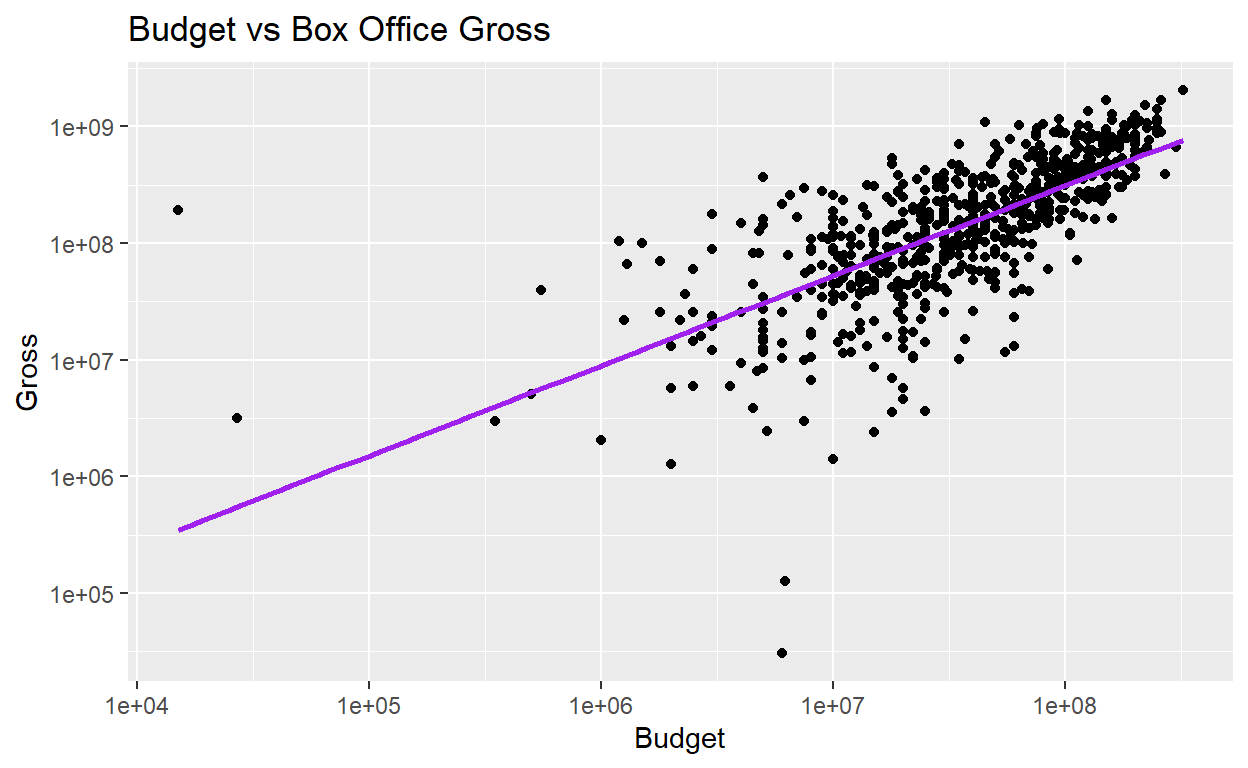
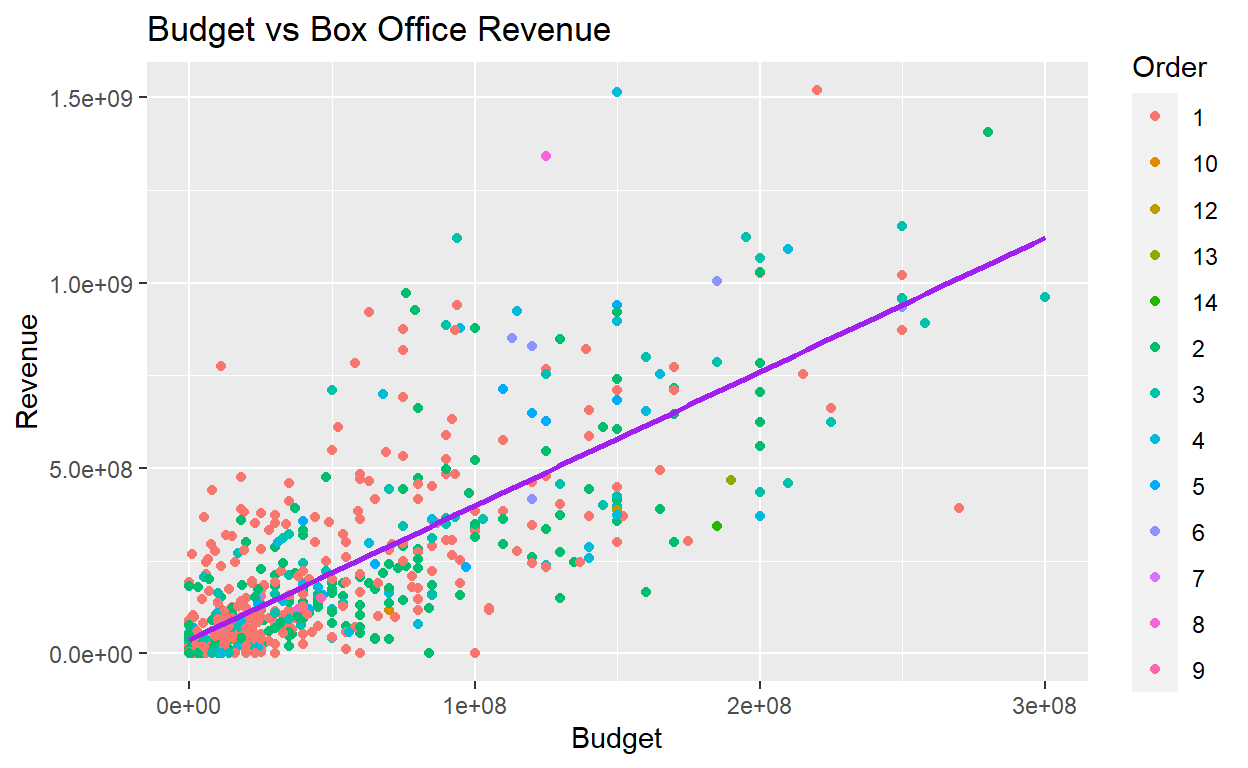
IX

diff --git a/index.html b/index.html
@@ -115,7 +115,7 @@ code span.wa { color: #5e5e5e; font-style: italic; } /* Warning */
   <!--/radix_placeholder_rmarkdown_metadata-->
   
   <script type="text/json" id="radix-resource-manifest">
-  {"type":"character","attributes":{},"value":["index_files/anchor-4.2.2/anchor.min.js","index_files/bowser-1.9.3/bowser.min.js","index_files/distill-2.2.21/template.v2.js","index_files/figure-html5/unnamed-chunk-3-1.png","index_files/figure-html5/unnamed-chunk-4-1.png","index_files/figure-html5/unnamed-chunk-5-1.png","index_files/figure-html5/unnamed-chunk-6-1.png","index_files/header-attrs-2.17/header-attrs.js","index_files/jquery-3.6.0/jquery-3.6.0.js","index_files/jquery-3.6.0/jquery-3.6.0.min.js","index_files/jquery-3.6.0/jquery-3.6.0.min.map","index_files/popper-2.6.0/popper.min.js","index_files/tippy-6.2.7/tippy-bundle.umd.min.js","index_files/tippy-6.2.7/tippy-light-border.css","index_files/tippy-6.2.7/tippy.css","index_files/tippy-6.2.7/tippy.umd.min.js","index_files/webcomponents-2.0.0/webcomponents.js","movies/movies.csv","Sequels/priyankad0993-sequels/Movies - Cleaned.csv","Sequels/priyankad0993-sequels/Movies - Cleaned.xlsx","Sequels/priyankad0993-sequels/Movies with sequels.csv"]}
+  {"type":"character","attributes":{},"value":["index_files/anchor-4.2.2/anchor.min.js","index_files/bowser-1.9.3/bowser.min.js","index_files/distill-2.2.21/template.v2.js","index_files/figure-html5/unnamed-chunk-3-1.png","index_files/figure-html5/unnamed-chunk-4-1.png","index_files/figure-html5/unnamed-chunk-5-1.png","index_files/figure-html5/unnamed-chunk-6-1.png","index_files/header-attrs-2.17/header-attrs.js","index_files/jquery-3.6.0/jquery-3.6.0.js","index_files/jquery-3.6.0/jquery-3.6.0.min.js","index_files/jquery-3.6.0/jquery-3.6.0.min.map","index_files/popper-2.6.0/popper.min.js","index_files/tippy-6.2.7/tippy-bundle.umd.min.js","index_files/tippy-6.2.7/tippy-light-border.css","index_files/tippy-6.2.7/tippy.css","index_files/tippy-6.2.7/tippy.umd.min.js","index_files/webcomponents-2.0.0/webcomponents.js","movies/movies.csv","movies_metadata.csv","Sequels/priyankad0993-sequels/Movies - Cleaned.csv","Sequels/priyankad0993-sequels/Movies - Cleaned.xlsx","Sequels/priyankad0993-sequels/Movies with sequels.csv"]}
   </script>
   <!--radix_placeholder_navigation_in_header-->
   <!--/radix_placeholder_navigation_in_header-->
@@ -1533,47 +1533,73 @@ code span.wa { color: #5e5e5e; font-style: italic; } /* Warning */
 <p>There are 731 movies released from 1973 to 2020 in this data set. The data notes what franchise a film belongs to and the order in which it was released. For example, the original “Halloween” movie is given a value in the “Order” column of 1. The explanatory variables in this case are the gross box office return of the original, measured in dollars, and the IMDb score of the original, measured on a scale of 1 to 10 (with 10 being the best). The response variables are the average gross box office return and average IMDb scores of any sequels. Since some sequels might be better-received than others, I will take the average gross box office return and IMDb score of the entire franchise after the first film. <strong>Note that for movies released before IMDb existed the score is retroactive and may reflect modern consumer tastes rather than the tastes of people who went to see the movie in theaters.</strong></p>
 <div class="layout-chunk" data-layout="l-body">
 <div class="sourceCode">
-<pre class="sourceCode r"><code class="sourceCode r"><span><span class='va'>movies</span> <span class='op'>&lt;-</span> <span class='fu'><a href='https://readr.tidyverse.org/reference/read_delim.html'>read_csv</a></span><span class='op'>(</span><span class='st'>"movies/movies.csv"</span><span class='op'>)</span></span>
+<pre class="sourceCode r"><code class="sourceCode r"><span><span class='va'>movies</span> <span class='op'>&lt;-</span> <span class='fu'><a href='https://readr.tidyverse.org/reference/read_delim.html'>read_csv</a></span><span class='op'>(</span><span class='st'>"movies_metadata.csv"</span><span class='op'>)</span><span class='op'>|&gt;</span></span>
+<span>  <span class='fu'><a href='https://dplyr.tidyverse.org/reference/select.html'>select</a></span><span class='op'>(</span><span class='va'>budget</span>, <span class='va'>overview</span>, <span class='va'>title</span>, <span class='va'>revenue</span>, <span class='va'>release_date</span>, <span class='va'>runtime</span><span class='op'>)</span><span class='op'>|&gt;</span></span>
+<span>  <span class='fu'><a href='https://dplyr.tidyverse.org/reference/mutate.html'>mutate</a></span><span class='op'>(</span>release_date <span class='op'>=</span> <span class='fu'><a href='https://rdrr.io/r/base/character.html'>as.character</a></span><span class='op'>(</span><span class='va'>release_date</span><span class='op'>)</span><span class='op'>)</span></span>
 <span></span>
 <span><span class='va'>sequels</span> <span class='op'>&lt;-</span> <span class='fu'><a href='https://readr.tidyverse.org/reference/read_delim.html'>read_csv</a></span><span class='op'>(</span><span class='st'>"Sequels/priyankad0993-sequels/Movies - Cleaned.csv"</span><span class='op'>)</span></span>
 <span></span>
-<span><span class='va'>movies_sequels</span> <span class='op'>&lt;-</span> <span class='va'>sequels</span><span class='op'>|&gt;</span></span>
-<span>  <span class='fu'><a href='https://dplyr.tidyverse.org/reference/mutate-joins.html'>inner_join</a></span><span class='op'>(</span><span class='va'>movies</span>, by <span class='op'>=</span> <span class='fu'><a href='https://rdrr.io/r/base/c.html'>c</a></span><span class='op'>(</span><span class='st'>"Title"</span> <span class='op'>=</span> <span class='st'>"name"</span><span class='op'>)</span><span class='op'>)</span><span class='op'>|&gt;</span></span>
-<span>    <span class='fu'><a href='https://dplyr.tidyverse.org/reference/select.html'>select</a></span><span class='op'>(</span><span class='va'>Title</span>, <span class='va'>Year</span>, <span class='va'>`Movie Series`</span>, <span class='va'>`Runtime (mins)`</span>, <span class='va'>`IMDb Rating`</span>, <span class='va'>Order</span>, <span class='va'>budget</span>, <span class='va'>gross</span><span class='op'>)</span><span class='op'>|&gt;</span></span>
-<span>  <span class='fu'><a href='https://dplyr.tidyverse.org/reference/mutate.html'>mutate</a></span><span class='op'>(</span>budget <span class='op'>=</span> <span class='fu'><a href='https://rdrr.io/r/base/integer.html'>as.integer</a></span><span class='op'>(</span><span class='va'>budget</span><span class='op'>)</span>,</span>
-<span>         gross <span class='op'>=</span> <span class='fu'><a href='https://rdrr.io/r/base/integer.html'>as.integer</a></span><span class='op'>(</span><span class='va'>gross</span><span class='op'>)</span><span class='op'>)</span></span>
-<span>  </span>
-<span><span class='va'>movies_sequels</span></span></code></pre>
+<span><span class='va'>sequels</span></span></code></pre>
 </div>
-<pre><code># A tibble: 731 x 8
-   Title             Year Movie ~1 Runti~2 IMDb ~3 Order budget  gross
-   &lt;chr&gt;            &lt;dbl&gt; &lt;chr&gt;      &lt;dbl&gt;   &lt;dbl&gt; &lt;dbl&gt;  &lt;int&gt;  &lt;int&gt;
- 1 101 Dalmatians    1996 101 Dal~     103     5.7     1  7.5e7 3.21e8
- 2 102 Dalmatians    2000 101 Dal~     100     4.9     2  8.5e7 1.84e8
- 3 12 Rounds         2009 12 Roun~     108     5.6     1  2.2e7 1.73e7
- 4 21 Jump Street    2012 21 Jump~     109     7.2     1  4.2e7 2.02e8
- 5 22 Jump Street    2014 21 Jump~     112     7       2  5  e7 3.31e8
- 6 28 Days Later...  2002 28 Days~     113     7.6     1  8  e6 8.57e7
- 7 28 Weeks Later    2007 28 Days~     100     7       2  1.5e7 6.50e7
- 8 30 Days of Night  2007 30 Days~     113     6.6     1  3  e7 7.55e7
- 9 48 Hrs.           1982 48 Hrs.       96     6.9     1  1.2e7 7.89e7
-10 Another 48 Hrs.   1990 48 Hrs.       93     5.9     2  3.8e7 1.54e8
-# ... with 721 more rows, and abbreviated variable names
-#   1: `Movie Series`, 2: `Runtime (mins)`, 3: `IMDb Rating`</code></pre>
+<pre><code># A tibble: 866 x 12
+   Title    Relea~1  Year Descr~2 URL   IMDb ~3 Runti~4 Genres Num V~5
+   &lt;chr&gt;    &lt;chr&gt;   &lt;dbl&gt; &lt;lgl&gt;   &lt;chr&gt;   &lt;dbl&gt;   &lt;dbl&gt; &lt;chr&gt;    &lt;dbl&gt;
+ 1 101 Dal~ 18-11-~  1996 NA      http~     5.7     103 Adven~   98439
+ 2 102 Dal~ 22-11-~  2000 NA      http~     4.9     100 Adven~   33823
+ 3 12 Roun~ 19-03-~  2009 NA      http~     5.6     108 Actio~   26828
+ 4 12 Roun~ 04-06-~  2013 NA      http~     5.3      95 Actio~    5141
+ 5 21 Jump~ 12-03-~  2012 NA      http~     7.2     109 Actio~  498876
+ 6 22 Jump~ 04-06-~  2014 NA      http~     7       112 Actio~  336672
+ 7 28 Days~ 01-11-~  2002 NA      http~     7.6     113 Drama~  366735
+ 8 28 Week~ 26-04-~  2007 NA      http~     7       100 Horro~  253260
+ 9 30 Days~ 16-10-~  2007 NA      http~     6.6     113 Actio~  160930
+10 48 Hrs.  08-12-~  1982 NA      http~     6.9      96 Actio~   66889
+# ... with 856 more rows, 3 more variables: Directors &lt;chr&gt;,
+#   `Movie Series` &lt;chr&gt;, Order &lt;dbl&gt;, and abbreviated variable names
+#   1: `Release Date`, 2: Description, 3: `IMDb Rating`,
+#   4: `Runtime (mins)`, 5: `Num Votes`</code></pre>
+<div class="sourceCode">
+<pre class="sourceCode r"><code class="sourceCode r"><span><span class='va'>movies_sequels</span> <span class='op'>&lt;-</span> <span class='va'>sequels</span><span class='op'>|&gt;</span></span>
+<span>  <span class='fu'><a href='https://dplyr.tidyverse.org/reference/mutate-joins.html'>left_join</a></span><span class='op'>(</span><span class='va'>movies</span>, by <span class='op'>=</span> <span class='fu'><a href='https://rdrr.io/r/base/c.html'>c</a></span><span class='op'>(</span><span class='st'>"Title"</span> <span class='op'>=</span> <span class='st'>"title"</span>, <span class='st'>"Runtime (mins)"</span> <span class='op'>=</span> <span class='st'>"runtime"</span><span class='op'>)</span><span class='op'>)</span><span class='op'>|&gt;</span></span>
+<span>    <span class='fu'><a href='https://dplyr.tidyverse.org/reference/select.html'>select</a></span><span class='op'>(</span><span class='va'>Title</span>, <span class='va'>`Movie Series`</span>, <span class='va'>`IMDb Rating`</span>, <span class='va'>Order</span>, <span class='va'>budget</span>, <span class='va'>overview</span>, <span class='va'>revenue</span>, <span class='va'>`Runtime (mins)`</span><span class='op'>)</span><span class='op'>|&gt;</span></span>
+<span>  <span class='fu'><a href='https://dplyr.tidyverse.org/reference/mutate.html'>mutate</a></span><span class='op'>(</span>budget <span class='op'>=</span> <span class='fu'><a href='https://rdrr.io/r/base/integer.html'>as.integer</a></span><span class='op'>(</span><span class='va'>budget</span><span class='op'>)</span>,</span>
+<span>         revenue <span class='op'>=</span> <span class='fu'><a href='https://rdrr.io/r/base/integer.html'>as.integer</a></span><span class='op'>(</span><span class='va'>revenue</span><span class='op'>)</span>,</span>
+<span>         Order <span class='op'>=</span> <span class='fu'><a href='https://rdrr.io/r/base/character.html'>as.character</a></span><span class='op'>(</span><span class='va'>Order</span><span class='op'>)</span><span class='op'>)</span><span class='op'>|&gt;</span></span>
+<span>  <span class='fu'><a href='https://dplyr.tidyverse.org/reference/rename.html'>rename</a></span><span class='op'>(</span>series <span class='op'>=</span> <span class='va'>`Movie Series`</span>,</span>
+<span>         rating <span class='op'>=</span> <span class='va'>`IMDb Rating`</span><span class='op'>)</span></span>
+<span><span class='va'>movies_sequels</span><span class='op'>|&gt;</span></span>
+<span>  <span class='fu'><a href='https://dplyr.tidyverse.org/reference/filter.html'>filter</a></span><span class='op'>(</span><span class='va'>series</span> <span class='op'>==</span> <span class='st'>"Halloween"</span><span class='op'>)</span></span></code></pre>
+</div>
+<pre><code># A tibble: 11 x 8
+   Title            series rating Order budget overv~1 revenue Runti~2
+   &lt;chr&gt;            &lt;chr&gt;   &lt;dbl&gt; &lt;chr&gt;  &lt;int&gt; &lt;chr&gt;     &lt;int&gt;   &lt;dbl&gt;
+ 1 Halloween        Hallo~    7.8 1      3  e5 In Joh~  7   e7      91
+ 2 Halloween II     Hallo~    6.5 2      2.5e6 After ~  2.55e7      92
+ 3 Halloween III: ~ Hallo~    4.9 3      2.5e6 Dr. Da~  1.44e7      98
+ 4 Halloween 4: Th~ Hallo~    5.9 4      5  e6 The le~  1.78e7      88
+ 5 Halloween 5: Th~ Hallo~    5.2 5      5  e6 Presum~  1.16e7      96
+ 6 Halloween: The ~ Hallo~    4.9 6     NA     &lt;NA&gt;    NA           87
+ 7 Halloween H20: ~ Hallo~    5.8 7     NA     &lt;NA&gt;    NA           86
+ 8 Halloween: Resu~ Hallo~    4   8      1.3e7 Serial~  3.77e7      94
+ 9 Halloween        Hallo~    6.1 9      1.5e7 After ~  8.03e7     109
+10 Halloween II     Hallo~    4.9 10     1.5e7 Laurie~  3.94e7     105
+11 Halloween        Hallo~    6.6 11    NA     &lt;NA&gt;    NA          106
+# ... with abbreviated variable names 1: overview,
+#   2: `Runtime (mins)`</code></pre>
 </div>
 <h2 id="analysis">3. Analysis</h2>
 <p><strong>a) Average Number of Movies in a Series</strong></p>
-<p>In this data set, movies are grouped by series, and each series has a certain number of movies. Some series have many sequels, and others are “one-and-done,” so to speak; there is only one movie in the series. The average number of movies in series that have sequels is about 2.82. You can see on the histogram below that many series have two or three movies, whereas some have up to 16.</p>
+<p>In this data set, movies are grouped by series, and each series has a certain number of movies. Some series have many sequels, and others are “one-and-done,” so to speak; there is only one movie in the series. The average number of movies in series that have sequels is about 2.88. You can see on the histogram below that many series have two or three movies, whereas some have 10 or more.</p>
 <div class="layout-chunk" data-layout="l-body">
 <div class="sourceCode">
 <pre class="sourceCode r"><code class="sourceCode r"><span><span class='va'>numbermovies</span> <span class='op'>&lt;-</span> <span class='va'>movies_sequels</span><span class='op'>|&gt;</span></span>
-<span>  <span class='fu'><a href='https://dplyr.tidyverse.org/reference/group_by.html'>group_by</a></span><span class='op'>(</span><span class='va'>`Movie Series`</span><span class='op'>)</span><span class='op'>|&gt;</span></span>
+<span>  <span class='fu'><a href='https://dplyr.tidyverse.org/reference/group_by.html'>group_by</a></span><span class='op'>(</span><span class='va'>series</span><span class='op'>)</span><span class='op'>|&gt;</span></span>
 <span>  <span class='fu'><a href='https://dplyr.tidyverse.org/reference/summarise.html'>summarize</a></span><span class='op'>(</span>number_of_movies <span class='op'>=</span> <span class='fu'><a href='https://dplyr.tidyverse.org/reference/context.html'>n</a></span><span class='op'>(</span><span class='op'>)</span><span class='op'>)</span><span class='op'>|&gt;</span></span>
 <span>  <span class='fu'><a href='https://dplyr.tidyverse.org/reference/filter.html'>filter</a></span><span class='op'>(</span><span class='va'>number_of_movies</span> <span class='op'>&gt;</span> <span class='fl'>1</span><span class='op'>)</span></span>
 <span></span>
 <span>  <span class='fu'><a href='https://rdrr.io/r/base/mean.html'>mean</a></span><span class='op'>(</span><span class='va'>numbermovies</span><span class='op'>$</span><span class='va'>number_of_movies</span><span class='op'>)</span></span></code></pre>
 </div>
-<pre><code>[1] 2.817757</code></pre>
+<pre><code>[1] 2.881679</code></pre>
 </div>
 <div class="layout-chunk" data-layout="l-body">
 <div class="sourceCode">
@@ -1593,28 +1619,26 @@ code span.wa { color: #5e5e5e; font-style: italic; } /* Warning */
 <p><img src="index_files/figure-html5/unnamed-chunk-3-1.png" width="624" /></p>
 </div>
 <p><strong>b) Box Office Return (General)</strong></p>
-<p>There is a strong positive correlation (0.7764) between a movie’s budget and its box office return. As a movie’s budget increases, it will generally make more money at the box office.</p>
+<p>There is a strong positive correlation (0.7931) between a movie’s budget and its box office return. As a movie’s budget increases, it will generally make more money at the box office.</p>
 <div class="layout-chunk" data-layout="l-body">
 <div class="sourceCode">
 <pre class="sourceCode r"><code class="sourceCode r"><span><span class='va'>grossplot</span> <span class='op'>&lt;-</span> <span class='va'>movies_sequels</span><span class='op'>|&gt;</span></span>
 <span>  <span class='fu'><a href='https://tidyr.tidyverse.org/reference/drop_na.html'>drop_na</a></span><span class='op'>(</span><span class='op'>)</span><span class='op'>|&gt;</span></span>
-<span>  <span class='fu'><a href='https://ggplot2.tidyverse.org/reference/ggplot.html'>ggplot</a></span><span class='op'>(</span>mapping <span class='op'>=</span> <span class='fu'><a href='https://ggplot2.tidyverse.org/reference/aes.html'>aes</a></span><span class='op'>(</span>x <span class='op'>=</span> <span class='va'>budget</span>, y <span class='op'>=</span> <span class='va'>gross</span><span class='op'>)</span><span class='op'>)</span><span class='op'>+</span></span>
+<span>  <span class='fu'><a href='https://ggplot2.tidyverse.org/reference/ggplot.html'>ggplot</a></span><span class='op'>(</span>mapping <span class='op'>=</span> <span class='fu'><a href='https://ggplot2.tidyverse.org/reference/aes.html'>aes</a></span><span class='op'>(</span>x <span class='op'>=</span> <span class='va'>budget</span>, y <span class='op'>=</span> <span class='va'>revenue</span>, color <span class='op'>=</span> <span class='va'>Order</span><span class='op'>)</span><span class='op'>)</span><span class='op'>+</span></span>
 <span>  <span class='fu'><a href='https://ggplot2.tidyverse.org/reference/geom_point.html'>geom_point</a></span><span class='op'>(</span><span class='op'>)</span><span class='op'>+</span></span>
 <span>  <span class='fu'><a href='https://ggplot2.tidyverse.org/reference/geom_smooth.html'>geom_smooth</a></span><span class='op'>(</span>method <span class='op'>=</span> <span class='st'>"lm"</span>, se <span class='op'>=</span> <span class='cn'>FALSE</span>, color <span class='op'>=</span> <span class='st'>"purple"</span><span class='op'>)</span><span class='op'>+</span></span>
-<span>  <span class='fu'><a href='https://ggplot2.tidyverse.org/reference/labs.html'>labs</a></span><span class='op'>(</span>title <span class='op'>=</span> <span class='st'>"Budget vs Box Office Gross"</span>,</span>
+<span>  <span class='fu'><a href='https://ggplot2.tidyverse.org/reference/labs.html'>labs</a></span><span class='op'>(</span>title <span class='op'>=</span> <span class='st'>"Budget vs Box Office Revenue"</span>,</span>
 <span>       x <span class='op'>=</span> <span class='st'>"Budget"</span>,</span>
-<span>       y <span class='op'>=</span> <span class='st'>"Gross"</span></span>
-<span>       <span class='op'>)</span><span class='op'>+</span></span>
-<span>  <span class='fu'><a href='https://ggplot2.tidyverse.org/reference/scale_continuous.html'>scale_x_log10</a></span><span class='op'>(</span><span class='op'>)</span><span class='op'>+</span></span>
-<span>  <span class='fu'><a href='https://ggplot2.tidyverse.org/reference/scale_continuous.html'>scale_y_log10</a></span><span class='op'>(</span><span class='op'>)</span></span>
+<span>       y <span class='op'>=</span> <span class='st'>"Revenue"</span></span>
+<span>       <span class='op'>)</span></span>
 <span>  </span>
 <span><span class='va'>grossplot</span></span></code></pre>
 </div>
 <img src="index_files/figure-html5/unnamed-chunk-4-1.png" width="624" />
 <div class="sourceCode">
-<pre class="sourceCode r"><code class="sourceCode r"><span><span class='fu'><a href='https://rdrr.io/r/stats/cor.html'>cor</a></span><span class='op'>(</span><span class='va'>movies_sequels</span><span class='op'>$</span><span class='va'>budget</span>, <span class='va'>movies_sequels</span><span class='op'>$</span><span class='va'>gross</span>, use <span class='op'>=</span> <span class='st'>"pairwise"</span><span class='op'>)</span></span></code></pre>
+<pre class="sourceCode r"><code class="sourceCode r"><span><span class='fu'><a href='https://rdrr.io/r/stats/cor.html'>cor</a></span><span class='op'>(</span><span class='va'>movies_sequels</span><span class='op'>$</span><span class='va'>budget</span>, <span class='va'>movies_sequels</span><span class='op'>$</span><span class='va'>revenue</span>, use <span class='op'>=</span> <span class='st'>"pairwise"</span><span class='op'>)</span></span></code></pre>
 </div>
-<pre><code>[1] 0.7764048</code></pre>
+<pre><code>[1] 0.7783911</code></pre>
 </div>
 <div class="layout-chunk" data-layout="l-body">
 <div class="sourceCode">
@@ -1633,16 +1657,31 @@ code span.wa { color: #5e5e5e; font-style: italic; } /* Warning */
 <span>  <span class='op'>)</span></span>
 <span></span>
 <span><span class='va'>has_sequels_tibble</span> <span class='op'>&lt;-</span> <span class='va'>movies_sequels</span><span class='op'>|&gt;</span></span>
-<span>  <span class='fu'><a href='https://dplyr.tidyverse.org/reference/group_by.html'>group_by</a></span><span class='op'>(</span><span class='va'>`Movie Series`</span><span class='op'>)</span><span class='op'>|&gt;</span></span>
+<span>  <span class='fu'><a href='https://dplyr.tidyverse.org/reference/group_by.html'>group_by</a></span><span class='op'>(</span><span class='va'>series</span><span class='op'>)</span><span class='op'>|&gt;</span></span>
 <span>  <span class='fu'><a href='https://dplyr.tidyverse.org/reference/summarise.html'>summarize</a></span><span class='op'>(</span>number_of_movies <span class='op'>=</span> <span class='fu'><a href='https://dplyr.tidyverse.org/reference/context.html'>n</a></span><span class='op'>(</span><span class='op'>)</span><span class='op'>)</span><span class='op'>|&gt;</span></span>
 <span>  <span class='fu'><a href='https://dplyr.tidyverse.org/reference/mutate.html'>mutate</a></span><span class='op'>(</span>series.has.sequels <span class='op'>=</span> <span class='fu'><a href='https://dplyr.tidyverse.org/reference/if_else.html'>if_else</a></span><span class='op'>(</span><span class='va'>number_of_movies</span> <span class='op'>&gt;</span> <span class='fl'>1</span>, <span class='st'>"Yes"</span>, <span class='st'>"No"</span><span class='op'>)</span><span class='op'>)</span></span>
 <span></span>
 <span><span class='va'>movies_sequels_new</span> <span class='op'>&lt;-</span> <span class='va'>movies_sequels</span><span class='op'>|&gt;</span></span>
-<span><span class='fu'><a href='https://dplyr.tidyverse.org/reference/mutate-joins.html'>inner_join</a></span><span class='op'>(</span><span class='va'>has_sequels_tibble</span>, by <span class='op'>=</span> <span class='st'>"Movie Series"</span><span class='op'>)</span></span></code></pre>
+<span><span class='fu'><a href='https://dplyr.tidyverse.org/reference/mutate-joins.html'>inner_join</a></span><span class='op'>(</span><span class='va'>has_sequels_tibble</span>, by <span class='op'>=</span> <span class='st'>"series"</span><span class='op'>)</span></span></code></pre>
 </div>
 </div>
 <p><strong>c) Box Office Return for Sequels vs Original</strong></p>
-<div class="sourceCode" id="cb4"><pre class="sourceCode r distill-force-highlighting-css"><code class="sourceCode r"></code></pre></div>
+<div class="layout-chunk" data-layout="l-body">
+<div class="sourceCode">
+<pre class="sourceCode r"><code class="sourceCode r"><span><span class='va'>movies_sequels_new</span><span class='op'>|&gt;</span></span>
+<span>  <span class='fu'><a href='https://dplyr.tidyverse.org/reference/filter.html'>filter</a></span><span class='op'>(</span><span class='va'>series.has.sequels</span> <span class='op'>==</span> <span class='st'>"Yes"</span><span class='op'>)</span><span class='op'>|&gt;</span></span>
+<span>  <span class='fu'><a href='https://dplyr.tidyverse.org/reference/group_by.html'>group_by</a></span><span class='op'>(</span><span class='va'>Order</span><span class='op'>)</span><span class='op'>|&gt;</span></span>
+<span>  <span class='fu'><a href='https://dplyr.tidyverse.org/reference/summarise.html'>summarize</a></span><span class='op'>(</span><span class='va'>revenue</span><span class='op'>)</span><span class='op'>|&gt;</span></span>
+<span>  <span class='fu'><a href='https://tidyr.tidyverse.org/reference/pivot_wider.html'>pivot_wider</a></span><span class='op'>(</span>names_from <span class='op'>=</span> <span class='va'>Order</span>,</span>
+<span>              values_from <span class='op'>=</span> <span class='va'>revenue</span><span class='op'>)</span></span></code></pre>
+</div>
+<pre><code># A tibble: 1 x 14
+  `1`    `10`   `11`   `12`  `13`  `14`  `2`   `3`   `4`   `5`   `6`  
+  &lt;list&gt; &lt;list&gt; &lt;list&gt; &lt;lis&gt; &lt;lis&gt; &lt;lis&gt; &lt;lis&gt; &lt;lis&gt; &lt;lis&gt; &lt;lis&gt; &lt;lis&gt;
+1 &lt;int&gt;  &lt;int&gt;  &lt;int&gt;  &lt;int&gt; &lt;int&gt; &lt;int&gt; &lt;int&gt; &lt;int&gt; &lt;int&gt; &lt;int&gt; &lt;int&gt;
+# ... with 3 more variables: `7` &lt;list&gt;, `8` &lt;list&gt;, `9` &lt;list&gt;</code></pre>
+</div>
+<div class="sourceCode" id="cb6"><pre class="sourceCode r distill-force-highlighting-css"><code class="sourceCode r"></code></pre></div>
 <!--radix_placeholder_article_footer-->
 <!--/radix_placeholder_article_footer-->
 </div>
